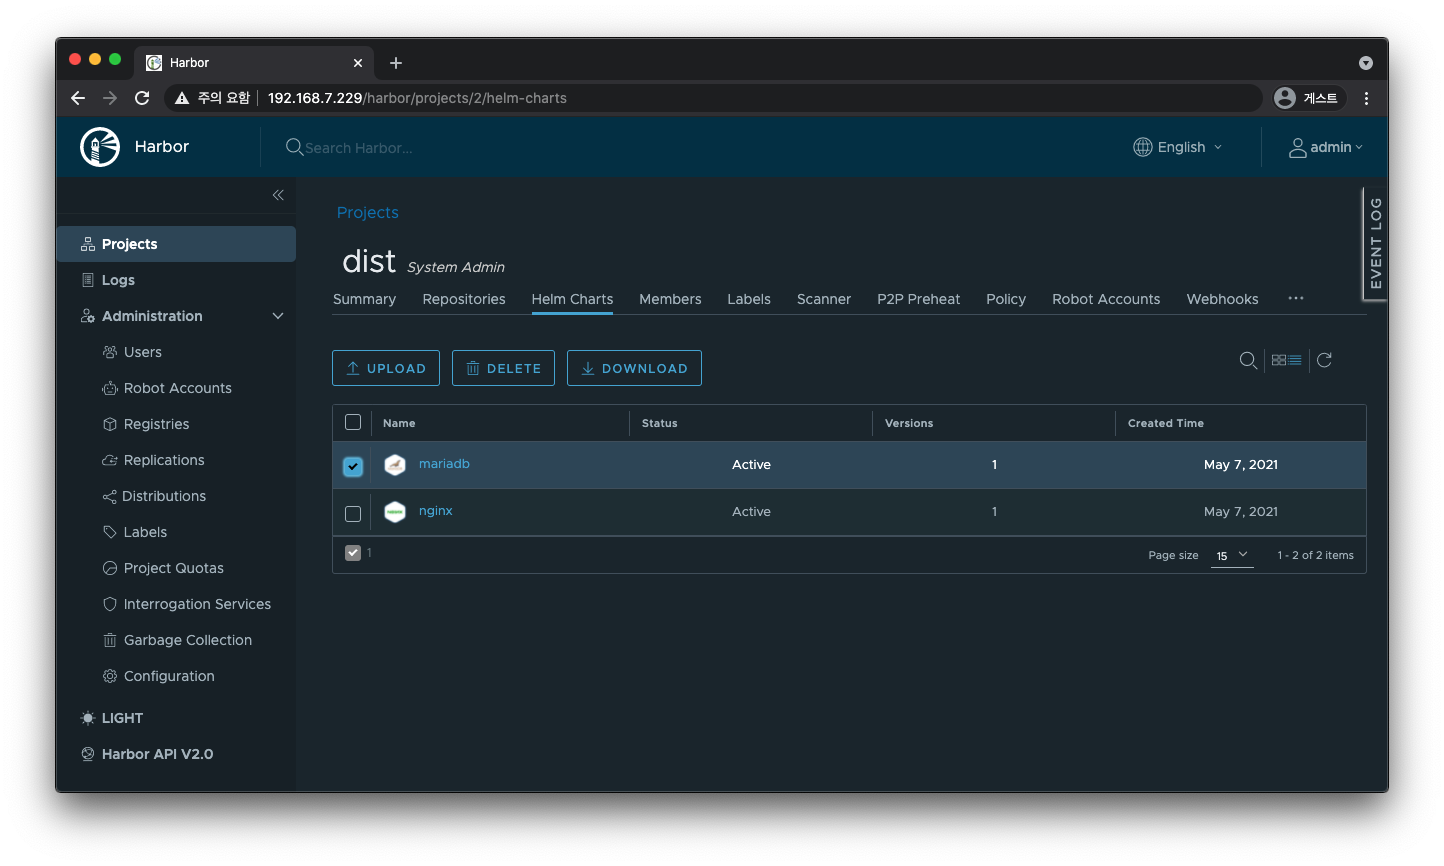
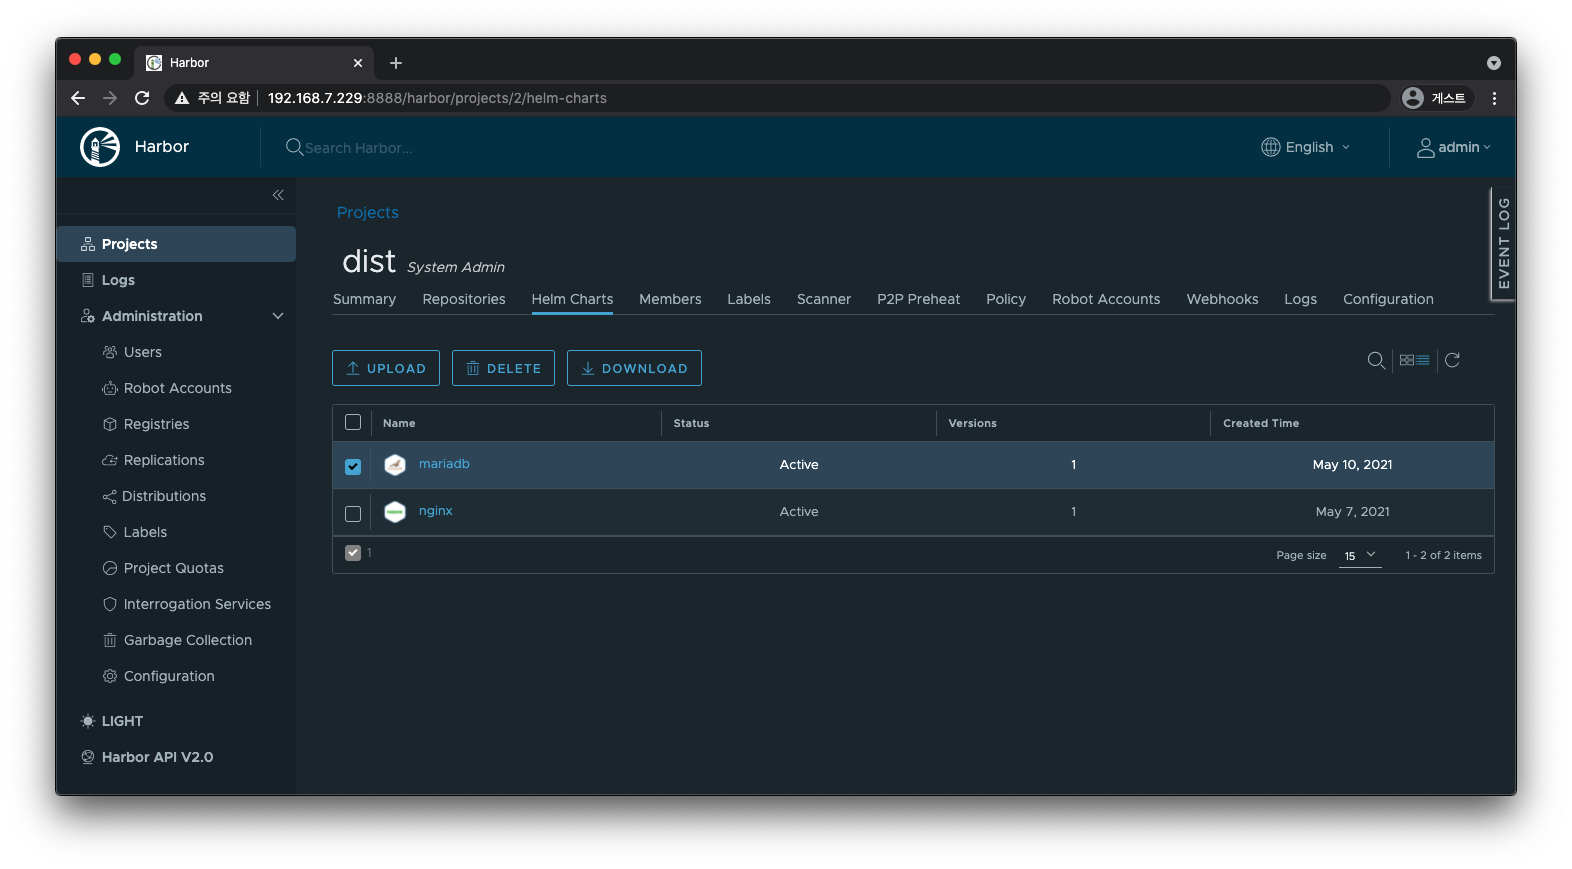
Update harbor doc

diff --git a/registry/harbor.md b/registry/harbor.md
@@ -2,21 +2,41 @@
 
 - [Harbor](#harbor)
   - [참고](#참고)
+  - [개요](#개요)
+  - [아키텍처](#아키텍처)
   - [설치](#설치)
     - [Prerequisite](#prerequisite)
       - [Hardware](#hardware)
       - [Software](#software)
     - [Installation](#installation)
-  - [LDAP 설정](#ldap-설정)
-  - [Project](#project)
+    - [Clean up](#clean-up)
+  - [Proxy](#proxy)
+    - [포트 번호 변경](#포트-번호-변경)
+  - [Identity Provider](#identity-provider)
+    - [LDAP 설정](#ldap-설정)
+    - [OIDC](#oidc)
+  - [Project - Consumer](#project---consumer)
     - [Docker Image](#docker-image)
     - [Helm Chart](#helm-chart)
-  - [Clean up](#clean-up)
+  - [Scan Provider](#scan-provider)
+    - [Trivy](#trivy)
+  - [프록시 캐시](#프록시-캐시)
+  - [Replicated Registry Provider](#replicated-registry-provider)
 
 ## 참고
 
 - [Harbor 홈페이지](https://goharbor.io/)
-- [Private Docker Registry를 구축하기 위한 오픈소스 Harbor 도입기](https://engineering.linecorp.com/ko/blog/harbor-for-private-docker-registry/) - Line
+- [Private Docker Registry를 구축하기 위한 오픈소스 Harbor 도입기](https://engineering.linecorp.com/ko/blog/harbor-for-private-docker-registry/) - 이지현, LINE
+
+## 개요
+
+Harbor(하버)는 CNCF 컨테이너 레지스트리 프로젝트 중 유일하게 `Graduated` 성숙도를 갖고 있다.
+
+## 아키텍처
+
+![harbor-architecture.png](../images/registry/harbor-architecture.png)
+
+_출처: [goharbor/harbor - wiki](https://github.com/goharbor/harbor/wiki/Architecture-Overview-of-Harbor)_
 
 ## [설치](https://goharbor.io/docs/2.2.0/install-config/)
 
@@ -40,6 +60,8 @@
 
 ### [Installation](https://goharbor.io/docs/latest/install-config/download-installer/)
 
+`.tgz` 파일과 `.tgz.asc` 파일이 같은 경로에 있어야 합니다.
+
 ```bash
 # online
 curl -LO https://github.com/goharbor/harbor/releases/download/v2.2.1/harbor-online-installer-v2.2.1.tgz
@@ -61,9 +83,9 @@ gpg --keyserver hkps://keyserver.ubuntu.com --recv-keys 644FF454C0B4115C
 
 ```bash
 ls
-# harbor-online-installer-v2.2.1.tgz  harbor-online-installer-v2.2.1.tgz.asc
+# harbor-online-installer-v2.2.1.tgz
+# harbor-online-installer-v2.2.1.tgz.asc
 
-# .tgz 파일과 .tgz.asc 파일이 같은 경로에 있어야 합니다.
 gpg -v --keyserver hkps://keyserver.ubuntu.com --verify harbor-online-installer-v2.2.1.tgz.asc
 # gpg: assuming signed data in `harbor-online-installer-v2.2.1.tgz'
 # gpg: Signature made 2021년 03월 26일 (금)  using RSA key ID C0B4115C
@@ -81,7 +103,7 @@ cd harbor
 처음 실행한다면 아래 명령어를 사용한다.
 TLS를 지원한다면 OCI 표준을 지원하는 `helm chart push` 명령어를 사용할 수 있다.
 반대로 TLS를 지원하지 않는다면 Helm 차트를 저장하기 위해 Chartmuseum을 같이 배포해야 한다.
-`./prepare --with-chartmuseum` 명령을 사용하면 Chartmuseum 설정을 포함하는 매니페스트 파일들이 생성된다.
+`./prepare --with-chartmuseum` 스크립트를 사용하면 Chartmuseum 설정을 포함하는 매니페스트 파일들이 생성된다.
 그러면 Harbor와 같이 배포된다.
 
 설정 템플릿을 복사하고
@@ -96,7 +118,7 @@ cp harbor.yml.tmpl harbor.yml
 hostname: 192.168.7.229
 
 http:
-  port: 8888
+  port: 80
 
 # https:
 #  port: 443
@@ -106,9 +128,30 @@ harbor_admin_password: Harbor12345 # 대소문자를 구분한다.
 data_volume: /data/harbor
 ```
 
+아래 스크립트는 Docker가 설치되어 있는지 사전 검사부터 설정 파일 생성과 실행을 동시에 진행한다.
+
 ```bash
-sudo ./prepare --with-chartmuseum
-sudo ./install.sh
+sudo ./install.sh \
+  --with-chartmuseum \
+  --with-trivy
+
+# [Step 0]: checking if docker is installed ...
+# [Step 1]: checking docker-compose is installed ...
+# [Step 2]: preparing environment ...
+# [Step 3]: preparing harbor configs ...
+# Note: stopping existing Harbor instance ...
+# [Step 4]: starting Harbor ...
+# ✔ ----Harbor has been installed and started successfully.----
+```
+
+아래 스크립트는 설정 파일만 생성하고 실행을 별도로 진행한다.
+
+```bash
+sudo ./prepare \
+  --with-chartmuseum \
+  --with-trivy
+
+sudo docker-compose up -d
 ```
 
 ![harbor-helm.png](../images/registry/harbor-helm.png)
@@ -179,23 +222,82 @@ curl ${HARBOR_HOST}/api/v2.0/health
 }
 ```
 
-## LDAP 설정
+### Clean up
+
+```bash
+# docker-compose down --volumes
+docker-compose down
+```
+
+## Proxy
+
+### 포트 번호 변경
+
+`harbor.yaml` 파일에서 포트 번호를 변경한 후 prepare 스크립트로
+`docker-compose.yaml` 파일을 다시 생성한다.
+
+```yaml
+# harbor.yml
+http:
+  port: 8888
+```
+
+```bash
+sudo ./prepare --with-chartmuseum
+```
+
+```yaml
+version: "2.3"
+services:
+  proxy:
+    image: goharbor/nginx-photon:v2.2.1
+    container_name: nginx
+    networks:
+      - harbor
+    dns_search: .
+    ports:
+      - 8888:8080
+```
+
+## Identity Provider
+
+### LDAP 설정
 
 `http://${HOSTNAME}/harbor/configs`
 
 > Administration > Configuration > Authentication > Auth Mode > LDAP
 
-## Project
+**연결할 LDAP 정보**를 입력하세요.
+아래는 예시입니다.
 
-먼저 Harbor 웹에서 `Project`를 생성해야 해당 프로젝트 이름으로 접근할 수 있다.
-프로젝트를 생성했다면 Docker로 접근해보자.
+| key                  | value                                    |
+| -------------------- | ---------------------------------------- |
+| LDAP URL             | ldap://192.168.55.221                    |
+| LDAP Search DN       | uid=changsu,cn=users,dc=markruler,dc=com |
+| LDAP Search Password | testpw                                   |
+| LDAP Base DN         | dc=markruler,dc=com                      |
+| LDAP UID             | cn                                       |
+| LDAP Scope           | Subtree                                  |
+
+`Save`하고 `Test LDAP Server`를 눌러서 정상적으로 연결되는지 확인한다.
+이후 LDAP에 저장되어 있는 계정으로 로그인하면 해당 정보가 캐시되어
+`Administration > Users`와 `Administration > Groups`에 표시된다.
+
+### OIDC
+
+- [OIDC Adapters](https://goharbor.io/docs/2.2.0/install-config/harbor-compatibility-list/#oidc-adapters)
+
+TODO: Keycloak
+
+## Project - Consumer
+
+먼저 Harbor 웹에서 `Project`를 생성하고 LDAP 멤버를 추가해야
+해당 프로젝트 이름으로 접근할 수 있다.
 
 ```json
 // /etc/docker/daemon.json
 {
-  "insecure-registries": [
-    "192.168.7.229:8888"
-  ]
+  "insecure-registries": ["192.168.7.229"]
 }
 ```
 
@@ -224,7 +326,7 @@ docker pull ${HARBOR_HOST}/${HARBOR_PROJECT}/registry:2.7.1
 
 ```bash
 helm repo add bitnami https://charts.bitnami.com/bitnami
-helm repo add harbor http://${HARBOR_HOST}/chartrepo/${HARBOR_PROJECT}
+helm repo add harbor http://${HARBOR_HOST}/chartrepo/${HARBOR_PROJECT} --username markruler --password ${my_password}
 helm repo list
 # NAME          URL
 # bitnami       https://charts.bitnami.com/bitnami
@@ -251,7 +353,7 @@ helm plugin install https://github.com/chartmuseum/helm-push.git
 Chartmuseum을 통해 `push`, `pull`을 사용할 수 있다.
 
 ```bash
-helm push mariadb-9.3.10.tgz harbor -u admin -p Harbor12345
+helm push mariadb-9.3.10.tgz harbor
 # Pushing mariadb-9.3.10.tgz to harbor...
 # Done.
 
@@ -260,6 +362,8 @@ helm search repo harbor
 # NAME            CHART VERSION APP VERSION DESCRIPTION
 # harbor/mariadb  9.3.10        10.5.9      Fast, reliable, scalable, and easy to use open-...
 # harbor/nginx    8.9.0         1.19.10     Chart for the nginx server
+
+helm pull harbor/mariadb
 ```
 
 ![harbor-helm-push.png](../images/registry/harbor-helm-push.png)
@@ -272,9 +376,105 @@ helm search repo harbor
 # HELM_EXPERIMENTAL_OCI=1 helm chart push ${HARBOR_HOST}/${PROJECT_REPO}/nginx:8.9.0 --debug
 ```
 
-## Clean up
+## Scan Provider
+
+- [Scanner Adapters](https://goharbor.io/docs/2.2.0/install-config/harbor-compatibility-list/#scanner-adapters)
+
+### Trivy
+
+Harbor에서 [Trivy](../container-runtime/trivy.md)를 사용해 이미지 취약점에 대한 정적 분석을 할 수 있다.
+Trivy를 사용하려면 설정 파일 생성 시 `--with-trivy` 옵션을 추가해야 한다.
+이 외의 취약점 스캐너를 사용하려면 [공식 문서](https://goharbor.io/docs/2.2.0/administration/vulnerability-scanning/pluggable-scanners/)를 참고한다.
+
+[모든 아티팩트 스캔](https://goharbor.io/docs/2.2.0/administration/vulnerability-scanning/scan-all-artifacts/).
+[Garbage Collection](https://goharbor.io/docs/2.2.0/administration/garbage-collection/) 기능과 마찬가지로 Cron을 활성화할 수 있다.
+
+![harbor-interrogation-scan.png](../images/registry/harbor-interrogation-scan.png)
+
+[개별 아티팩트 스캔](https://goharbor.io/docs/2.2.0/administration/vulnerability-scanning/scan-individual-artifact/).
+
+![harbor-artifact-scan.png](../images/registry/harbor-artifact-scan.png)
+
+이 외에도 개별 프로젝트마다 `Deployment security`를 설정하면 취약점 정도에 따라 아티팩트 배포를 막을 수 있다.
+
+## 프록시 캐시
+
+- [공식 문서](https://goharbor.io/docs/2.2.0/administration/configure-proxy-cache/)
+
+Harbor v2.1.1부터 프록시 캐시 기능이
+[Docker Hub의 이미지 풀(pull) 제한 정책](https://www.docker.com/blog/scaling-docker-to-serve-millions-more-developers-network-egress/)에 맞게 업데이트 되었다.
+해당 제한 정책을 피하려면 v2.1.1 이상을 사용하는 것이 좋다.
+리포지터리를 통째로 복제해오는 것이 아니라 사용자가 이미지를 가져올 때 해당 이미지만 저장(캐싱)한다.
+정해진 Retention 기간(기본값 7일) 동안 이미지를 Harbor에서 사용할 수 있다.
+프록시 캐싱이 지원되는 레지스트리는 다음과 같다.
+
+- Harbor
+- Docker Hub
+- AWS Elastic Container Registry
+- Azure Container Registry
+- Google Container Registry
+- Quay
+
+먼저 레지스트리 [엔드포인트를 추가](https://goharbor.io/docs/2.2.0/administration/configuring-replication/create-replication-endpoints/)한다.
+
+> Administration > Registries > `NEW ENDPOINT`
+
+| key           | value                    |
+| ------------- | ------------------------ |
+| Provider      | Docker Hub               |
+| Name          | dockerhub                |
+| Endpoint URL  | `https://hub.docker.com` |
+| Access ID     | ${Docker Hub ID}         |
+| Access Secret | ${Docker Hub Password}   |
+
+그 후 새로운 Project를 생성하면서 프록시 캐시를 설정한다.
+(마찬가지로 멤버도 추가해준다)
+
+| key          | value                              |
+| ------------ | ---------------------------------- |
+| Project Name | dockerhub-proxy                    |
+| Public       | `true`                             |
+| Proxy Cache  | `dockerhub-https://hub.docker.com` |
 
 ```bash
-# docker-compose down --volumes
-docker-compose down
+docker login 192.168.7.229/dockerhub-proxy -u markruler
+
+# docker pull ${harbor_server_name}/${proxy_project_name}/goharbor/harbor-core:dev
+docker pull 192.168.7.229/dockerhub-proxy/goharbor/harbor-core:dev
+
+# 공식 이미지는 `library` 네임스페이스를 사용한다.
+docker pull 192.168.7.229/dockerhub-proxy/library/hello-world:latest
 ```
+
+pull 하면 이미지가 캐시되는 것이 확인된다.
+
+![harbor-proxy-cache.png](../images/registry/harbor-proxy-cache.png)
+
+`public`이 `false`라면 아래와 같은 에러가 발생하는데 원인은 모른다.
+
+```bash
+# Error response from daemon: unauthorized: unauthorized to access repository: dockerhub-proxy/hello-world, action: pull: unauthorized to access repository: dockerhub-proxy/hello-world, action: pull
+```
+
+## Replicated Registry Provider
+
+- [Replication Adapters](https://goharbor.io/docs/2.2.0/install-config/harbor-compatibility-list/#replication-adapters)
+- [공식 문서](https://goharbor.io/docs/2.2.0/administration/configuring-replication/)
+
+> Administration > Replications > `New Replication Rule`
+
+| key                    | value                              |
+| ---------------------- | ---------------------------------- |
+| Name                   | calico                             |
+| Replication mode       | Pull-based                         |
+| Source registry        | `dockerhub-https://hub.docker.com` |
+| Source resource filter | calico/\*\*                        |
+
+공개 레지스트리에 있는 리포지터리를 통째로 [복제한다](https://goharbor.io/docs/2.2.0/administration/configuring-replication/manage-replications/).
+복제하려면 프록시 캐시와 마찬가지로 복제할 레지스트리의 엔드포인트를 등록한다.
+Docker Hub는 한번에 많이 요청하면 앞에서 언급한 image pull rate 제한 정책에 걸려 복제할 수 없다.
+
+![harbor-replication.png](../images/registry/harbor-replication.png)
+
+1개 성공하자마자 줄줄이 실패해서 로그를 확인했더니 `You have reached your pull rate limit. You may increase the limit by authenticating and upgrading: https://www.docker.com/increase-rate-limit`
+라고 나와서 바로 `STOP`했다...

diff --git a/registry/README.md b/registry/README.md
@@ -1,0 +1,5 @@
+# 레지스트리
+
+## 레지스트리(registry) vs. 리포지터리(repository)
+
+- [참고](https://doveltech.com/innovation/registries-vs-repositories-and-standards-vs-products/)
